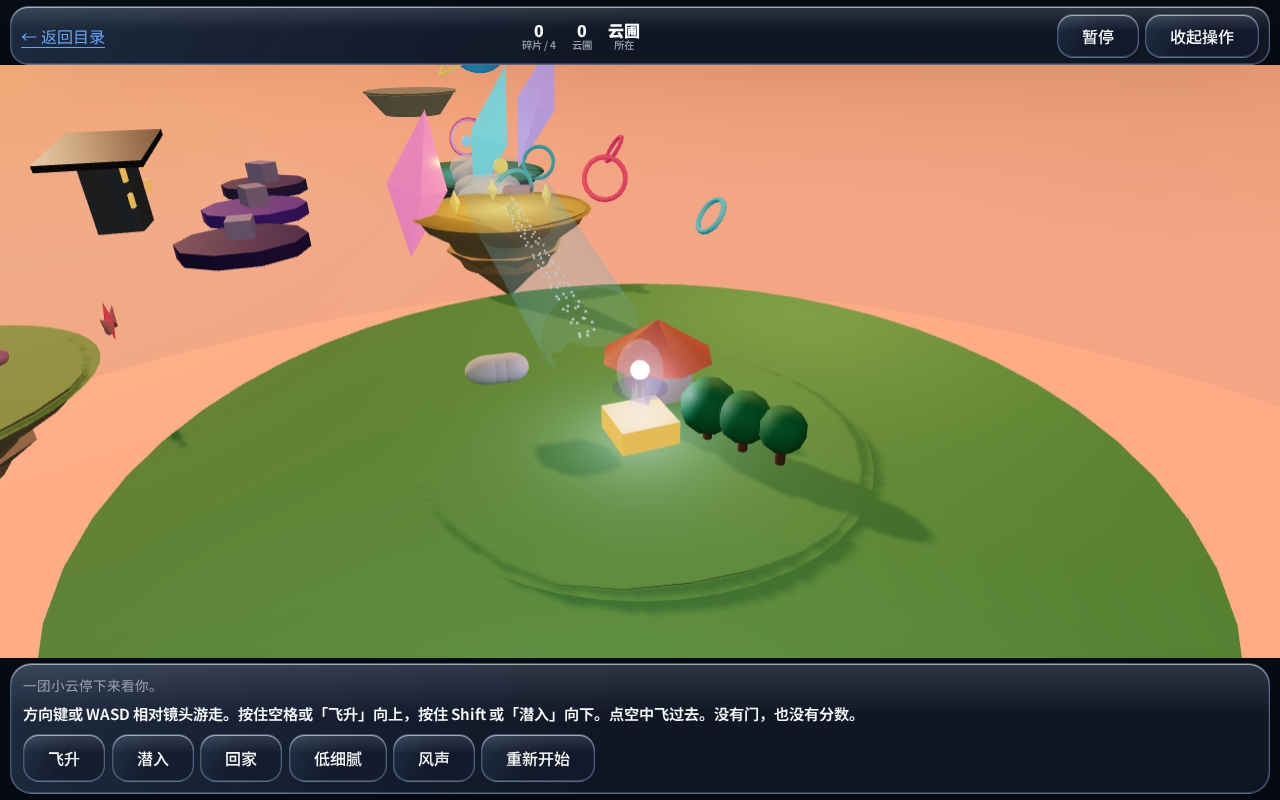
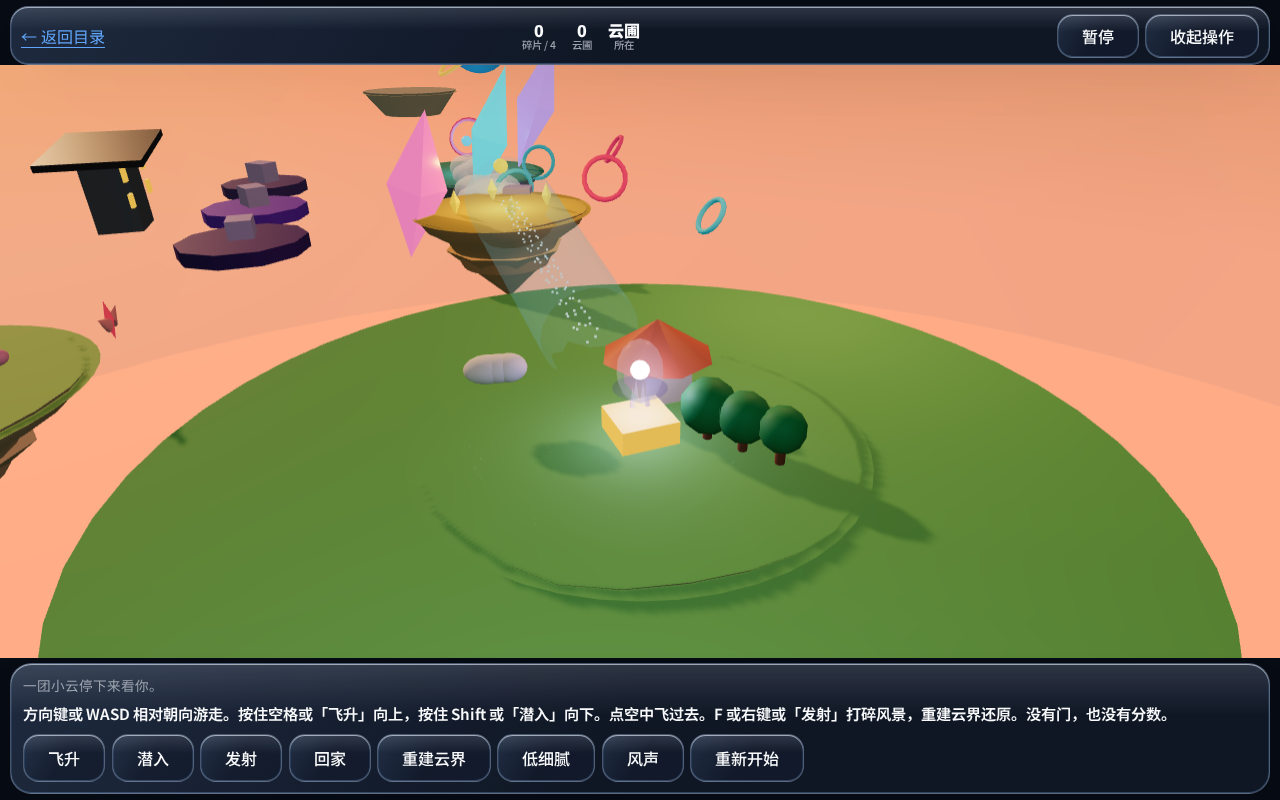
test(cloud): guest e2e for free flight, cannon impact, and 390 fire
Cover yaw-0 W, pointer-up and blur release, F/发射 destruction with
rebuild, bounded pools, schema 3 migration, and cargo-haul sibling boot.
Refresh 1280/390 shots so before/after impact and the 390 fire control
are visible.

diff --git a/web/e2e/cloud-walk.e2e.ts b/web/e2e/cloud-walk.e2e.ts
@@ -27,6 +27,7 @@ type SkyVec = {
 	biome: string | null;
 	lookx: number;
 	lookz: number;
+	bound: boolean;
 };
 
 async function readSky(sky: Locator): Promise<SkyVec> {
@@ -37,7 +38,8 @@ async function readSky(sky: Locator): Promise<SkyVec> {
 		r: Number(el.getAttribute('data-r')),
 		biome: el.getAttribute('data-biome'),
 		lookx: Number(el.getAttribute('data-lookx')),
-		lookz: Number(el.getAttribute('data-lookz'))
+		lookz: Number(el.getAttribute('data-lookz')),
+		bound: el.getAttribute('data-bound') === '1'
 	}));
 }
 
@@ -101,6 +103,36 @@ async function releaseMouse(page: Page) {
 	await page.mouse.up();
 }
 
+const KEY_FLAG: Record<string, string> = {
+	ArrowUp: 'data-up',
+	ArrowDown: 'data-down',
+	ArrowLeft: 'data-left',
+	ArrowRight: 'data-right',
+	Space: 'data-rise',
+	Shift: 'data-dive'
+};
+
+async function pressSkyKey(page: Page, sky: Locator, key: string) {
+	await page.keyboard.down(key);
+	const attr = KEY_FLAG[key];
+	if (!attr) return;
+	try {
+		await expect(sky).toHaveAttribute(attr, '1', { timeout: 400 });
+	} catch {
+		const code = key === 'Space' ? 'Space' : key === 'Shift' ? 'ShiftLeft' : key;
+		const name = key === 'Space' ? ' ' : key === 'Shift' ? 'Shift' : key;
+		await page.evaluate(
+			({ code, name }) => {
+				window.dispatchEvent(
+					new KeyboardEvent('keydown', { key: name, code, bubbles: true, cancelable: true })
+				);
+			},
+			{ code, name }
+		);
+		await expect(sky).toHaveAttribute(attr, '1', { timeout: 2500 });
+	}
+}
+
 async function flyUntil(
 	page: Page,
 	sky: Locator,
@@ -110,13 +142,28 @@ async function flyUntil(
 ) {
 	const start = Date.now();
 	let held: string[] = [];
-	let stickKey = '';
-	let stickUntil = 0;
 	const release = async () => {
-		for (const key of held) await page.keyboard.up(key);
+		for (const key of held) {
+			await page.keyboard.up(key);
+			const attr = KEY_FLAG[key];
+			if (attr) {
+				await page.evaluate(
+					({ code, name }) => {
+						window.dispatchEvent(
+							new KeyboardEvent('keyup', { key: name, code, bubbles: true, cancelable: true })
+						);
+					},
+					{
+						code: key === 'Space' ? 'Space' : key === 'Shift' ? 'ShiftLeft' : key,
+						name: key === 'Space' ? ' ' : key === 'Shift' ? 'Shift' : key
+					}
+				);
+			}
+		}
 		held = [];
 	};
 	while (Date.now() - start < timeout) {
+		await focusStage(page);
 		const v = await readSky(sky);
 		if (pred(v)) {
 			await release();
@@ -125,6 +172,7 @@ async function flyUntil(
 		const next: string[] = [];
 		if (target.y != null) {
 			if (v.y < target.y - 0.5) next.push('Space');
+			if (v.y > target.y + 0.8) next.push('Shift');
 		}
 		const dx = target.x - v.x;
 		const dz = target.z - v.z;
@@ -132,27 +180,54 @@ async function flyUntil(
 		const lz = v.lookz;
 		const fwd = dx * lx + dz * lz;
 		const right = dx * lz + dz * -lx;
-		const preferred =
-			Math.abs(fwd) >= Math.abs(right)
-				? fwd >= 0
-					? 'ArrowUp'
-					: 'ArrowDown'
-				: right >= 0
-					? 'ArrowRight'
-					: 'ArrowLeft';
-		const now = Date.now();
-		if (!stickKey || now >= stickUntil || stickKey === preferred) {
-			stickKey = preferred;
-			stickUntil = now + 1400;
+		if (fwd > 0.45) next.push('ArrowUp');
+		else if (fwd < -0.45) next.push('ArrowDown');
+		if (right > 0.45) next.push('ArrowRight');
+		else if (right < -0.45) next.push('ArrowLeft');
+		if (
+			!next.includes('ArrowUp') &&
+			!next.includes('ArrowDown') &&
+			!next.includes('ArrowRight') &&
+			!next.includes('ArrowLeft')
+		) {
+			next.push(
+				Math.abs(fwd) >= Math.abs(right)
+					? fwd >= 0
+						? 'ArrowUp'
+						: 'ArrowDown'
+					: right >= 0
+						? 'ArrowRight'
+						: 'ArrowLeft'
+			);
 		}
-		next.push(stickKey);
 		const uniq = [...new Set(next)];
-		for (const key of held) if (!uniq.includes(key)) await page.keyboard.up(key);
-		for (const key of uniq) if (!held.includes(key)) await page.keyboard.down(key);
+		for (const key of held) {
+			if (uniq.includes(key)) continue;
+			await page.keyboard.up(key);
+			const attr = KEY_FLAG[key];
+			if (attr) {
+				await page.evaluate(
+					({ code, name }) => {
+						window.dispatchEvent(
+							new KeyboardEvent('keyup', { key: name, code, bubbles: true, cancelable: true })
+						);
+					},
+					{
+						code: key === 'Space' ? 'Space' : key === 'Shift' ? 'ShiftLeft' : key,
+						name: key === 'Space' ? ' ' : key === 'Shift' ? 'Shift' : key
+					}
+				);
+			}
+		}
+		for (const key of uniq) if (!held.includes(key)) await pressSkyKey(page, sky, key);
 		held = uniq;
 		await page.waitForTimeout(180);
 	}
 	const last = await readSky(sky);
+	if (pred(last)) {
+		await release();
+		return last;
+	}
 	await release();
 	throw new Error(`timeout flying toward ${JSON.stringify(target)}; last ${JSON.stringify(last)}`);
 }
@@ -190,7 +265,7 @@ test.describe('云上散步', () => {
 	});
 
 	test('guest ghost climbs, dives, roams biomes, and hits the rim', async ({ page }) => {
-		test.setTimeout(180_000);
+		test.setTimeout(210_000);
 		await page.setViewportSize({ width: 1280, height: 800 });
 		await boot(page, 'dark');
 		await page.goto('/modules/games/cloud-walk', { waitUntil: 'networkidle' });
@@ -282,7 +357,14 @@ test.describe('云上散步', () => {
 		await shot(page, 'cloud-walk-city-390.png');
 		await page.setViewportSize({ width: 1280, height: 800 });
 
-		await flyUntil(page, sky, { x: 2, z: -40, y: 8 }, (v) => v.r >= 38, 28_000);
+		await focusStage(page);
+		await flyUntil(
+			page,
+			sky,
+			{ x: 2, z: -40, y: 8 },
+			(v) => v.bound || Math.hypot(v.x, v.z) >= 37.5,
+			40_000
+		);
 		await expect(sky).toHaveAttribute('data-bound', '1');
 		await shot(page, 'cloud-walk-bound-1280.png');
 
@@ -545,6 +627,7 @@ test.describe('云上散步', () => {
 		await expect(sky).toHaveAttribute('data-hidden', '0');
 		const gpu = Number(await sky.getAttribute('data-gpu'));
 		expect(Number.isFinite(gpu)).toBe(true);
+		console.log(`cloud renderer.render ms (CPU timestamp around GL): ${gpu}`);
 
 		await focusStage(page);
 		await page.keyboard.down('Space');

diff --git a/web/src/lib/games/cloud/render.ts b/web/src/lib/games/cloud/render.ts
@@ -1096,8 +1096,10 @@ export function mountCloudScene(canvas: HTMLCanvasElement): CloudScene | null {
 		scene.add(mesh);
 		return mesh;
 	});
-	const shardGeo = keepGeo(new THREE.BoxGeometry(0.28, 0.22, 0.18));
-	const shardMat = keepMat(mat(0xfde68a, { emissive: 0xf59e0b, emissiveIntensity: 0.55 }));
+	const shardGeo = keepGeo(new THREE.BoxGeometry(0.62, 0.48, 0.4));
+	const shardMat = keepMat(
+		mat(0xffedd5, { emissive: 0xea580c, emissiveIntensity: 1.35, roughness: 0.35 })
+	);
 	const shardBoxes: CloudMesh[] = Array.from({ length: SHARD_POOL }, () => {
 		const mesh = new THREE.Mesh(shardGeo, shardMat);
 		mesh.visible = false;

diff --git a/web/src/lib/games/cloud/CloudPlay.svelte b/web/src/lib/games/cloud/CloudPlay.svelte
@@ -65,6 +65,10 @@
 		canvas.dataset.yaw = String(Math.round(world.yaw * 100) / 100);
 		canvas.dataset.rise = world.keys.rise ? '1' : '0';
 		canvas.dataset.dive = world.keys.dive ? '1' : '0';
+		canvas.dataset.up = world.keys.up ? '1' : '0';
+		canvas.dataset.down = world.keys.down ? '1' : '0';
+		canvas.dataset.left = world.keys.left ? '1' : '0';
+		canvas.dataset.right = world.keys.right ? '1' : '0';
 		canvas.dataset.steer = world.steer ? '1' : '0';
 		canvas.dataset.fire = world.fireHeld ? '1' : '0';
 		canvas.dataset.bullets = String(world.bullets.filter((b) => b.live).length);

diff --git a/web/src/lib/games/cloud/cannon.ts b/web/src/lib/games/cloud/cannon.ts
@@ -121,9 +121,9 @@ function spawnShards(world: SkyWorld, at: { x: number; y: number; z: number }, n
 		const shard = allocShard(world);
 		const a = (i / SHARDS_PER_HIT) * Math.PI * 2;
 		shard.live = true;
-		shard.x = at.x + Math.cos(a) * 0.35;
-		shard.y = at.y + 0.15;
-		shard.z = at.z + Math.sin(a) * 0.35;
+		shard.x = at.x + Math.cos(a) * 0.85;
+		shard.y = at.y + 0.35 + (i % 3) * 0.18;
+		shard.z = at.z + Math.sin(a) * 0.85;
 		shard.born = now;
 		shard.spin = a;
 	}
